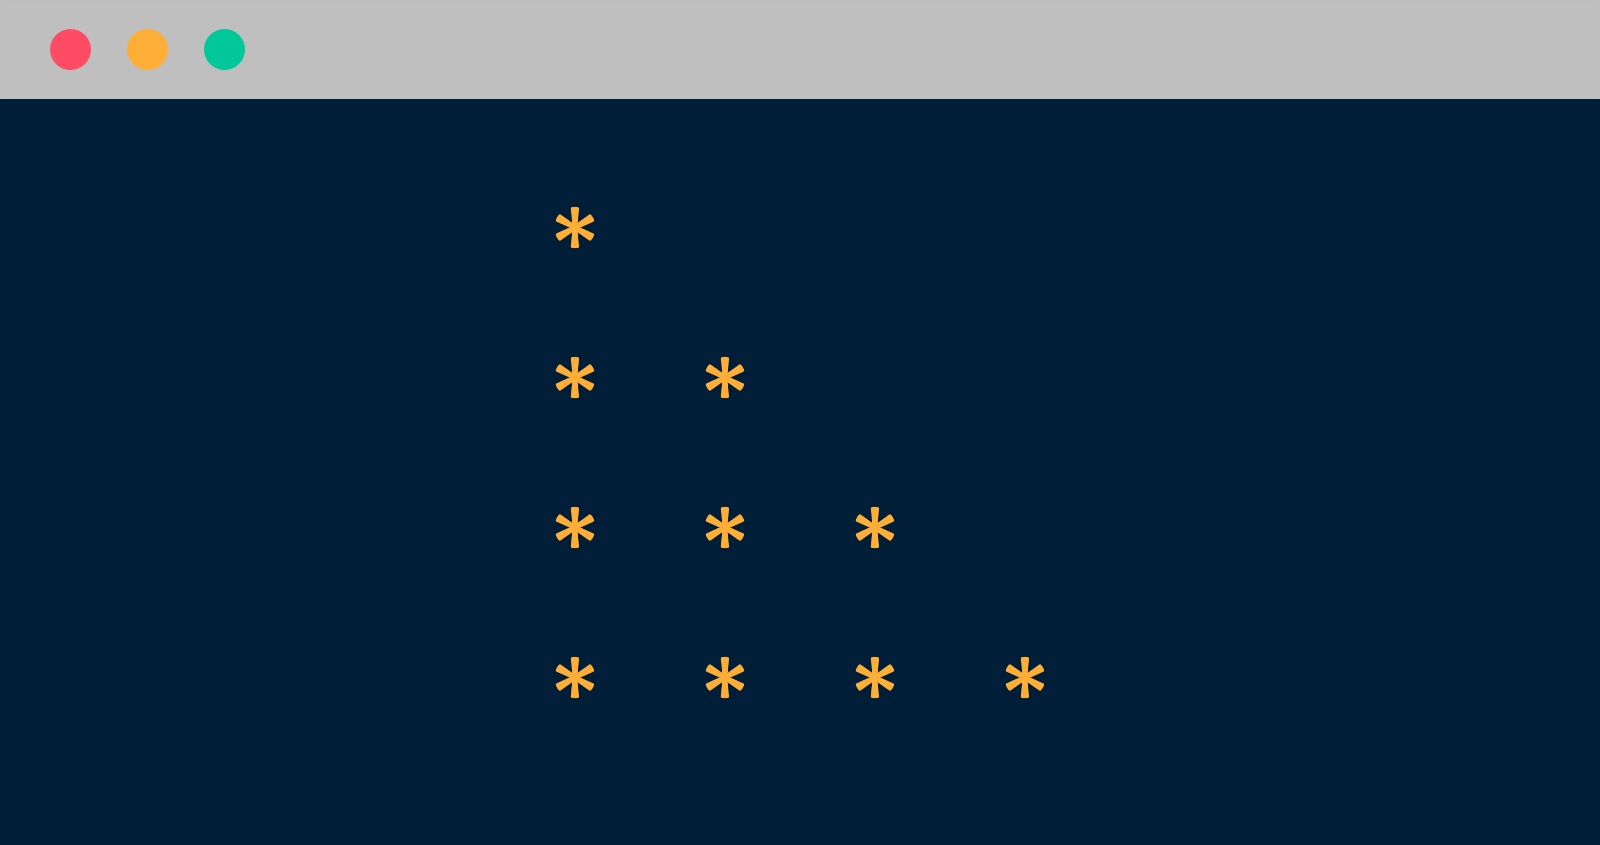
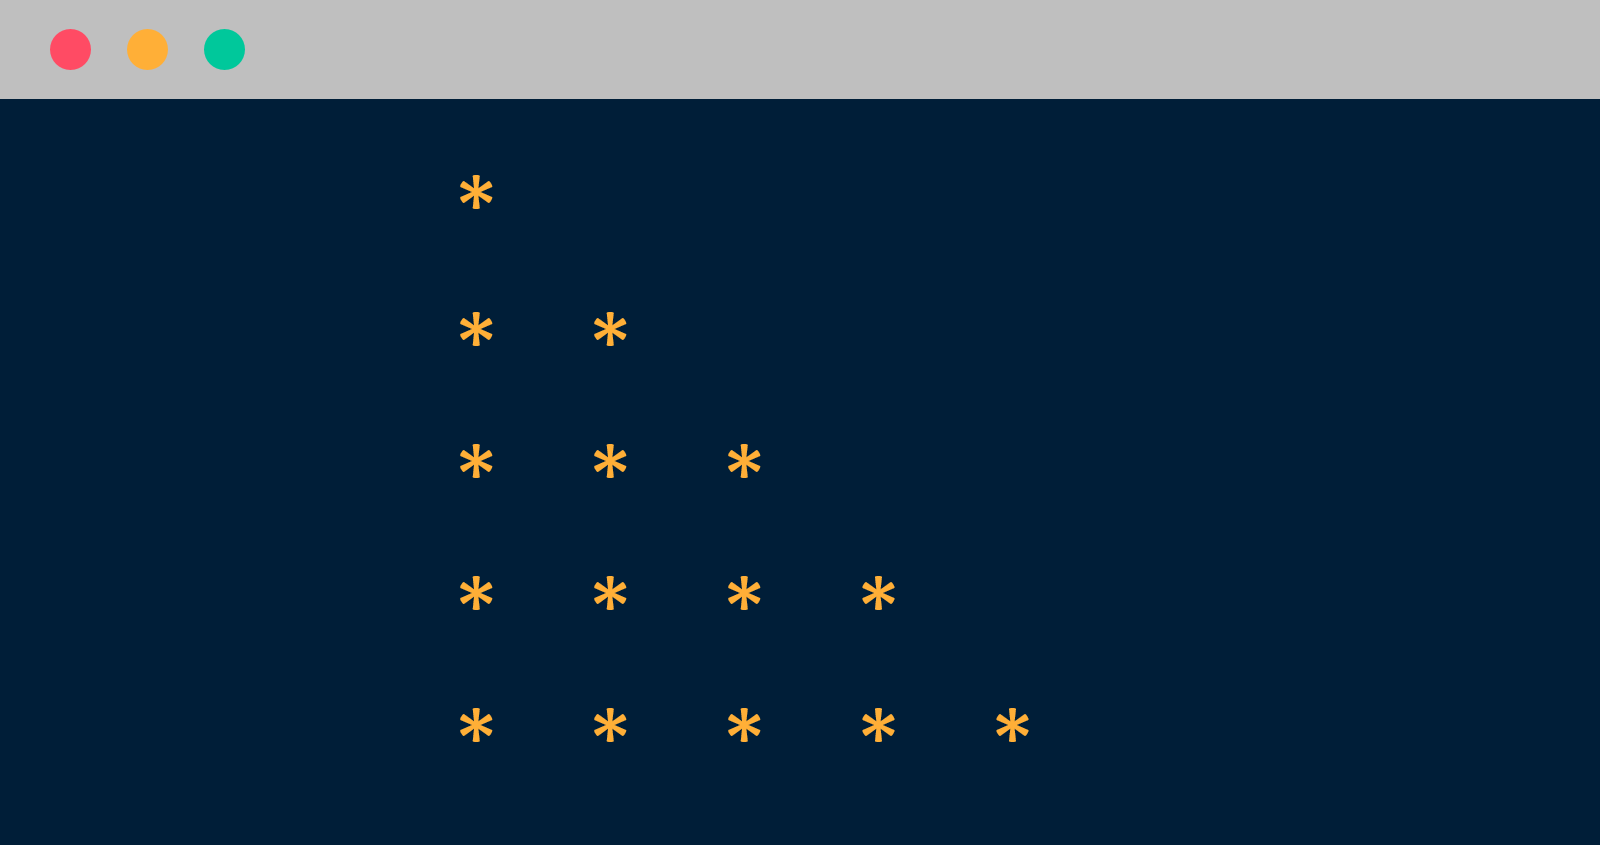
updated js codes for patterns & minor changes in pattern pages & images

diff --git a/codes_script.js b/codes_script.js
@@ -3715,13 +3715,9 @@ class HexadecimalOctal
 {
 'js':
 `let limit = prompt("Enter Limit");
+
 for (i = 1; i <= limit; i++)
-{
-  let star = "";
-  for (j = 1; j <= i; j++)
-    star += "* ";
-  console.log(star);
-}`,
+  console.log("* ".repeat(i).trim());`,
 
 'py':
 `for i in range(1, int(input("Enter Limit: ")) + 1):
@@ -3795,13 +3791,9 @@ class Pattern1
 {
 'js':
 `let limit = prompt("Enter Limit");
+
 for (i = limit; i > 0; i--)
-{
-  let star = "";
-  for (j = i; j > 0; j--)
-    star += "* ";
-  console.log(star);
-}`,
+  console.log("* ".repeat(i).trim());`,
 
 'py':
 `for i in range(int(input("Enter Limit: ")), 0, -1):
@@ -3874,22 +3866,12 @@ class Pattern2
 "pattern3":
 {
 'js':
-`let limit = prompt("Enter Number");
+`let limit = prompt("Enter Limit");
 
-for (let i = 1; i < limit; i++)
-{
-  let star = "";
-  for (let j = 1; j <= i; j++)
-    star += "* ";
-  console.log(star);
-}
+for (i = 1; i < limit; i++)
+  console.log("* ".repeat(i).trim());
 for (i = limit; i > 0; i--)
-{
-  star = "";
-  for (j = i; j > 0; j--)
-    star += "* ";
-  console.log(star);
-}`,
+  console.log("* ".repeat(i).trim());`,
 
 'py':
 `limit = int(input("Enter Limit: "))
@@ -3982,7 +3964,26 @@ class Pattern3
 },
 
 
-// "programName":
+"pattern4":
+{
+'js':
+``,
+
+'py':
+``,
+
+'c':
+``,
+
+'cpp':
+``,
+
+'java':
+``
+},
+
+
+// "pattern":
 // {
 // 'js':
 // ``,

diff --git a/Code/js/pattern3.js b/Code/js/pattern3.js
@@ -1,16 +1,6 @@
-let limit = prompt("Enter Number");
+let limit = prompt("Enter Limit");
 
-for (let i = 1; i < limit; i++)
-{
-  let star = "";
-  for (let j = 1; j <= i; j++)
-    star += "* ";
-  console.log(star);
-}
+for (i = 1; i < limit; i++)
+  console.log("* ".repeat(i).trim());
 for (i = limit; i > 0; i--)
-{
-  star = "";
-  for (j = i; j > 0; j--)
-    star += "* ";
-  console.log(star);
-}
+  console.log("* ".repeat(i).trim());

diff --git a/Programs/pattern2.html b/Programs/pattern2.html
@@ -19,6 +19,7 @@
         This program prints a pattern as follows with number of rows specified by user.
         <pre class="pattern">
 
+            * * * * *
             * * * *
             * * *
             * *

diff --git a/Code/js/pattern1.js b/Code/js/pattern1.js
@@ -1,8 +1,4 @@
 let limit = prompt("Enter Limit");
+
 for (i = 1; i <= limit; i++)
-{
-  let star = "";
-  for (j = 1; j <= i; j++)
-    star += "* ";
-  console.log(star);
-}
+  console.log("* ".repeat(i).trim());

diff --git a/Code/js/pattern2.js b/Code/js/pattern2.js
@@ -1,8 +1,4 @@
 let limit = prompt("Enter Limit");
+
 for (i = limit; i > 0; i--)
-{
-  let star = "";
-  for (j = i; j > 0; j--)
-    star += "* ";
-  console.log(star);
-}
+  console.log("* ".repeat(i).trim());

diff --git a/Programs/pattern3.html b/Programs/pattern3.html
@@ -22,8 +22,6 @@
             *
             * *
             * * *
-            * * * *
-            * * *
             * *
             *
         </pre>

diff --git a/Programs/pattern1.html b/Programs/pattern1.html
@@ -23,6 +23,7 @@
             * *
             * * *
             * * * *
+            * * * * *
         </pre>
     </section>
 
